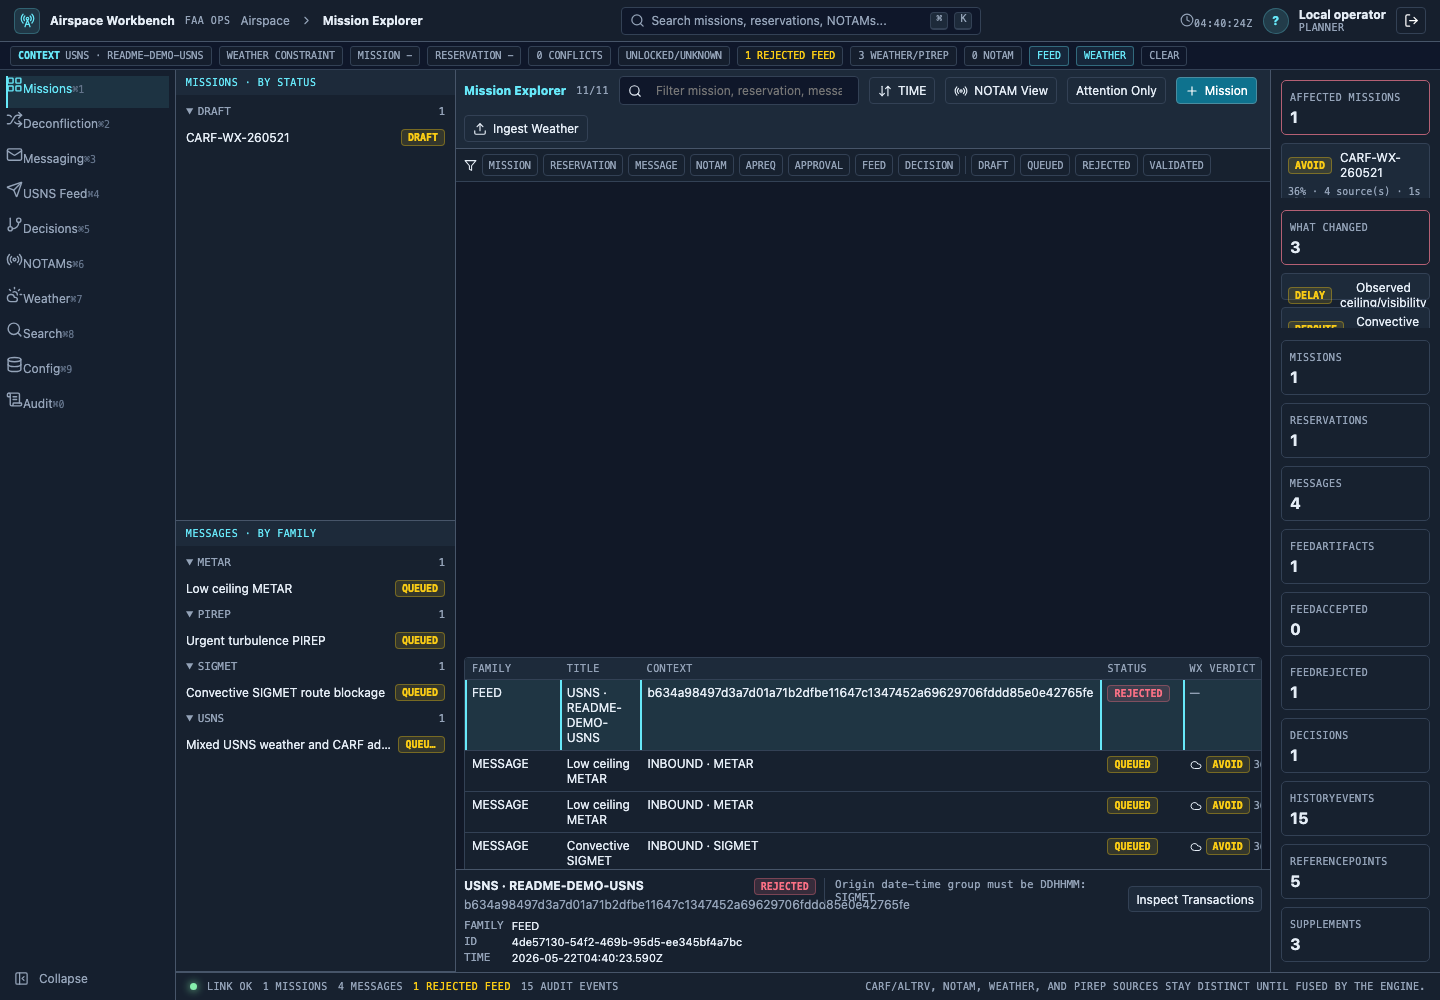
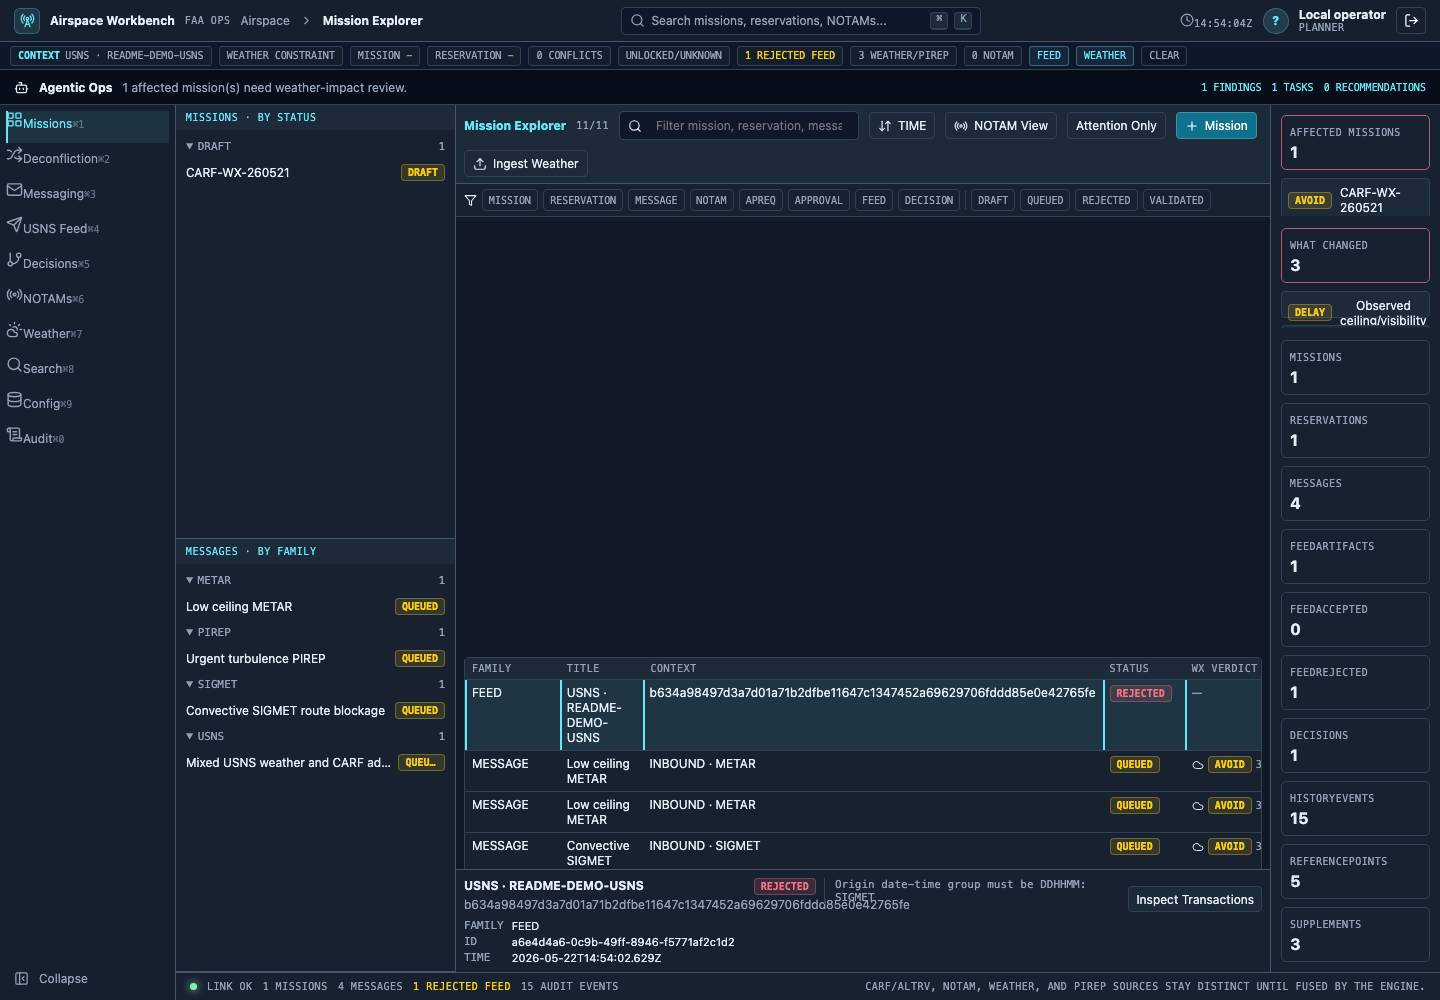
Refresh product screenshots and capture agentic ops

diff --git a/README.md b/README.md
@@ -253,37 +253,41 @@ The screenshots below are organized around that safety loop:
 
 ![Login](/docs/screenshots/01-login.png)
 
-| Mission Explorer | Mission Workspace |
+| Mission Explorer | Agentic Ops |
 | --- | --- |
-| ![Mission Explorer](/docs/screenshots/02-mission-explorer.png) | ![Mission Workspace](/docs/screenshots/03-mission-workspace.png) |
+| ![Mission Explorer](/docs/screenshots/02-mission-explorer.png) | ![Agentic Ops](/docs/screenshots/03-agentic-ops.png) |
 
-| Pilot Brief | Reservation Sections |
+| Mission Workspace | Pilot Brief |
 | --- | --- |
-| ![Pilot Brief](/docs/screenshots/04-pilot-brief.png) | ![Reservation Sections](/docs/screenshots/05-reservation-sections.png) |
+| ![Mission Workspace](/docs/screenshots/04-mission-workspace.png) | ![Pilot Brief](/docs/screenshots/05-pilot-brief.png) |
 
-| Reservation Supplements | Deconfliction Review |
+| Reservation Sections | Reservation Supplements |
 | --- | --- |
-| ![Reservation Supplements](/docs/screenshots/06-reservation-supplements.png) | ![Deconfliction Review](/docs/screenshots/07-deconfliction-review.png) |
+| ![Reservation Sections](/docs/screenshots/06-reservation-sections.png) | ![Reservation Supplements](/docs/screenshots/07-reservation-supplements.png) |
 
-| Messaging | USNS Feed |
+| Deconfliction Review | Messaging |
 | --- | --- |
-| ![Messaging](/docs/screenshots/08-messaging.png) | ![USNS Feed](/docs/screenshots/09-usns-feed.png) |
+| ![Deconfliction Review](/docs/screenshots/08-deconfliction-review.png) | ![Messaging](/docs/screenshots/09-messaging.png) |
 
-| Decision Summary | Decision Trace |
+| USNS Feed | Decision Summary |
 | --- | --- |
-| ![Decision Summary](/docs/screenshots/10-decision-summary.png) | ![Decision Trace](/docs/screenshots/11-decision-trace.png) |
+| ![USNS Feed](/docs/screenshots/10-usns-feed.png) | ![Decision Summary](/docs/screenshots/11-decision-summary.png) |
 
-| Decision Map | NOTAM Constraints |
+| Decision Trace | Decision Map |
 | --- | --- |
-| ![Decision Map](/docs/screenshots/12-decision-map.png) | ![NOTAM Constraints](/docs/screenshots/13-notam-constraints.png) |
+| ![Decision Trace](/docs/screenshots/12-decision-trace.png) | ![Decision Map](/docs/screenshots/13-decision-map.png) |
 
-| Weather And PIREPs | Config / Reference Data |
+| NOTAM Constraints | Weather And PIREPs |
 | --- | --- |
-| ![Weather And PIREPs](/docs/screenshots/14-weather-pirep.png) | ![Config Reference](/docs/screenshots/15-config-reference.png) |
+| ![NOTAM Constraints](/docs/screenshots/14-notam-constraints.png) | ![Weather And PIREPs](/docs/screenshots/15-weather-pirep.png) |
+
+| Config / Reference Data | Agentic System Observability |
+| --- | --- |
+| ![Config Reference](/docs/screenshots/16-config-reference.png) | ![Agentic System Observability](/docs/screenshots/17-agentic-system.png) |
 
 | Search | History And Audit |
 | --- | --- |
-| ![Search](/docs/screenshots/16-search.png) | ![History And Audit](/docs/screenshots/17-history-audit.png) |
+| ![Search](/docs/screenshots/18-search.png) | ![History And Audit](/docs/screenshots/19-history-audit.png) |
 
 Local product dev:
 